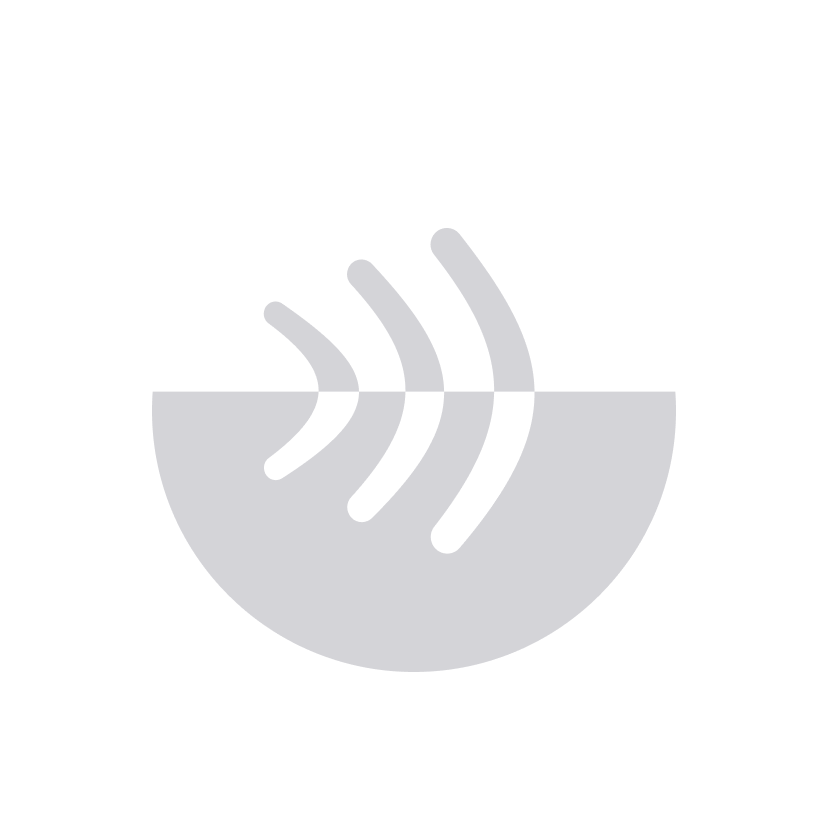
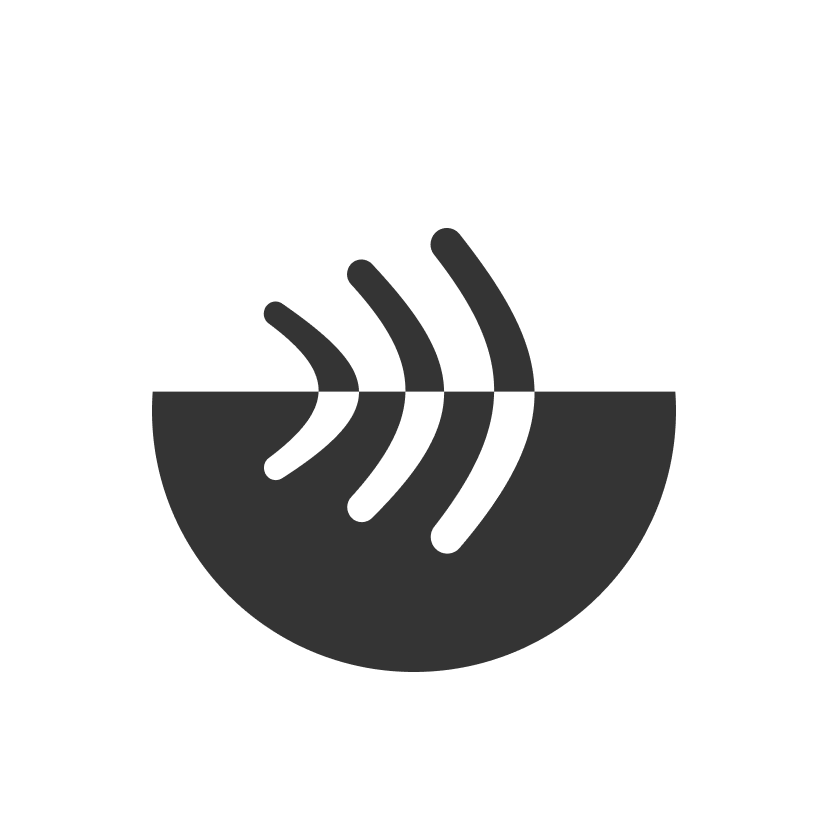
Fix the splash screen issue

Changed region(s): [[0.182, 0.2731, 0.8192, 0.8192]]

diff --git a/apps/mobile/src/app/_layout.tsx b/apps/mobile/src/app/_layout.tsx
@@ -1,5 +1,4 @@
 import { useEffect } from "react";
-import { Appearance } from "react-native";
 import { useFonts } from "expo-font";
 import { Slot } from "expo-router";
 import * as SecureStore from "expo-secure-store";
@@ -23,19 +22,18 @@ export {
   ErrorBoundary,
 } from "expo-router";
 
+// Prevent the splash screen from auto-hiding before asset loading is complete.
+SplashScreen.preventAutoHideAsync().catch(console.error);
+SplashScreen.setOptions({ fade: true });
+
+const clerkPublishableKey = process.env
+  .EXPO_PUBLIC_CLERK_PUBLISHABLE_KEY as string;
+
 export const unstable_settings = {
   // Ensure that reloading on `/modal` keeps a back button present.
   // initialRouteName: "(tabs)",
   initialRouteName: "/",
 };
-
-const clerkPublishableKey = process.env
-  .EXPO_PUBLIC_CLERK_PUBLISHABLE_KEY as string;
-
-// Prevent the splash screen from auto-hiding before asset loading is complete.
-SplashScreen.preventAutoHideAsync().catch(console.error);
-
-Appearance.setColorScheme("light");
 
 export default function RootLayout() {
   const colorScheme = useColorScheme();

diff --git a/apps/mobile/app.config.ts b/apps/mobile/app.config.ts
@@ -6,10 +6,12 @@ export default ({ config }: ConfigContext): ExpoConfig => ({
   slug: "Tonnant",
   version: "1.0.0",
   orientation: "portrait",
+  platforms: ["ios", "android"],
   icon: "./assets/images/icon.png",
   scheme: "tonnant",
   userInterfaceStyle: "light",
   newArchEnabled: true,
+  backgroundColor: "#111111",
   splash: {
     image: "./assets/images/splash-icon.png",
     resizeMode: "contain",
@@ -41,6 +43,14 @@ export default ({ config }: ConfigContext): ExpoConfig => ({
   // },
   plugins: [
     "expo-router",
+    [
+      "expo-splash-screen",
+      {
+        backgroundColor: "#ffffff",
+        image: "./assets/images/splash-icon.png",
+        imageWidth: 200,
+      },
+    ],
     "expo-sqlite",
     [
       "expo-audio",

diff --git a/apps/mobile/src/app/(home)/(tabs)/record.tsx b/apps/mobile/src/app/(home)/(tabs)/record.tsx
@@ -22,7 +22,7 @@ export default function TabTwoScreen() {
       <View style={styles.contentContainer}>
         <Text
           style={{
-            fontSize: 50,
+            fontSize: 55,
             fontWeight: "300",
             color: theme.colors.typography,
             fontVariant: ["tabular-nums"],

diff --git a/apps/mobile/src/providers/trpc.provider.tsx b/apps/mobile/src/providers/trpc.provider.tsx
@@ -36,7 +36,7 @@ export function TRPCProvider(props: { children: React.ReactNode }) {
       ],
     }),
   );
-
+  // TODO: add a buster to invalidate the cache, set the maxAge to a reasonable value,
   return (
     <api.Provider client={trpcClient} queryClient={queryClient}>
       <PersistQueryClientProvider
